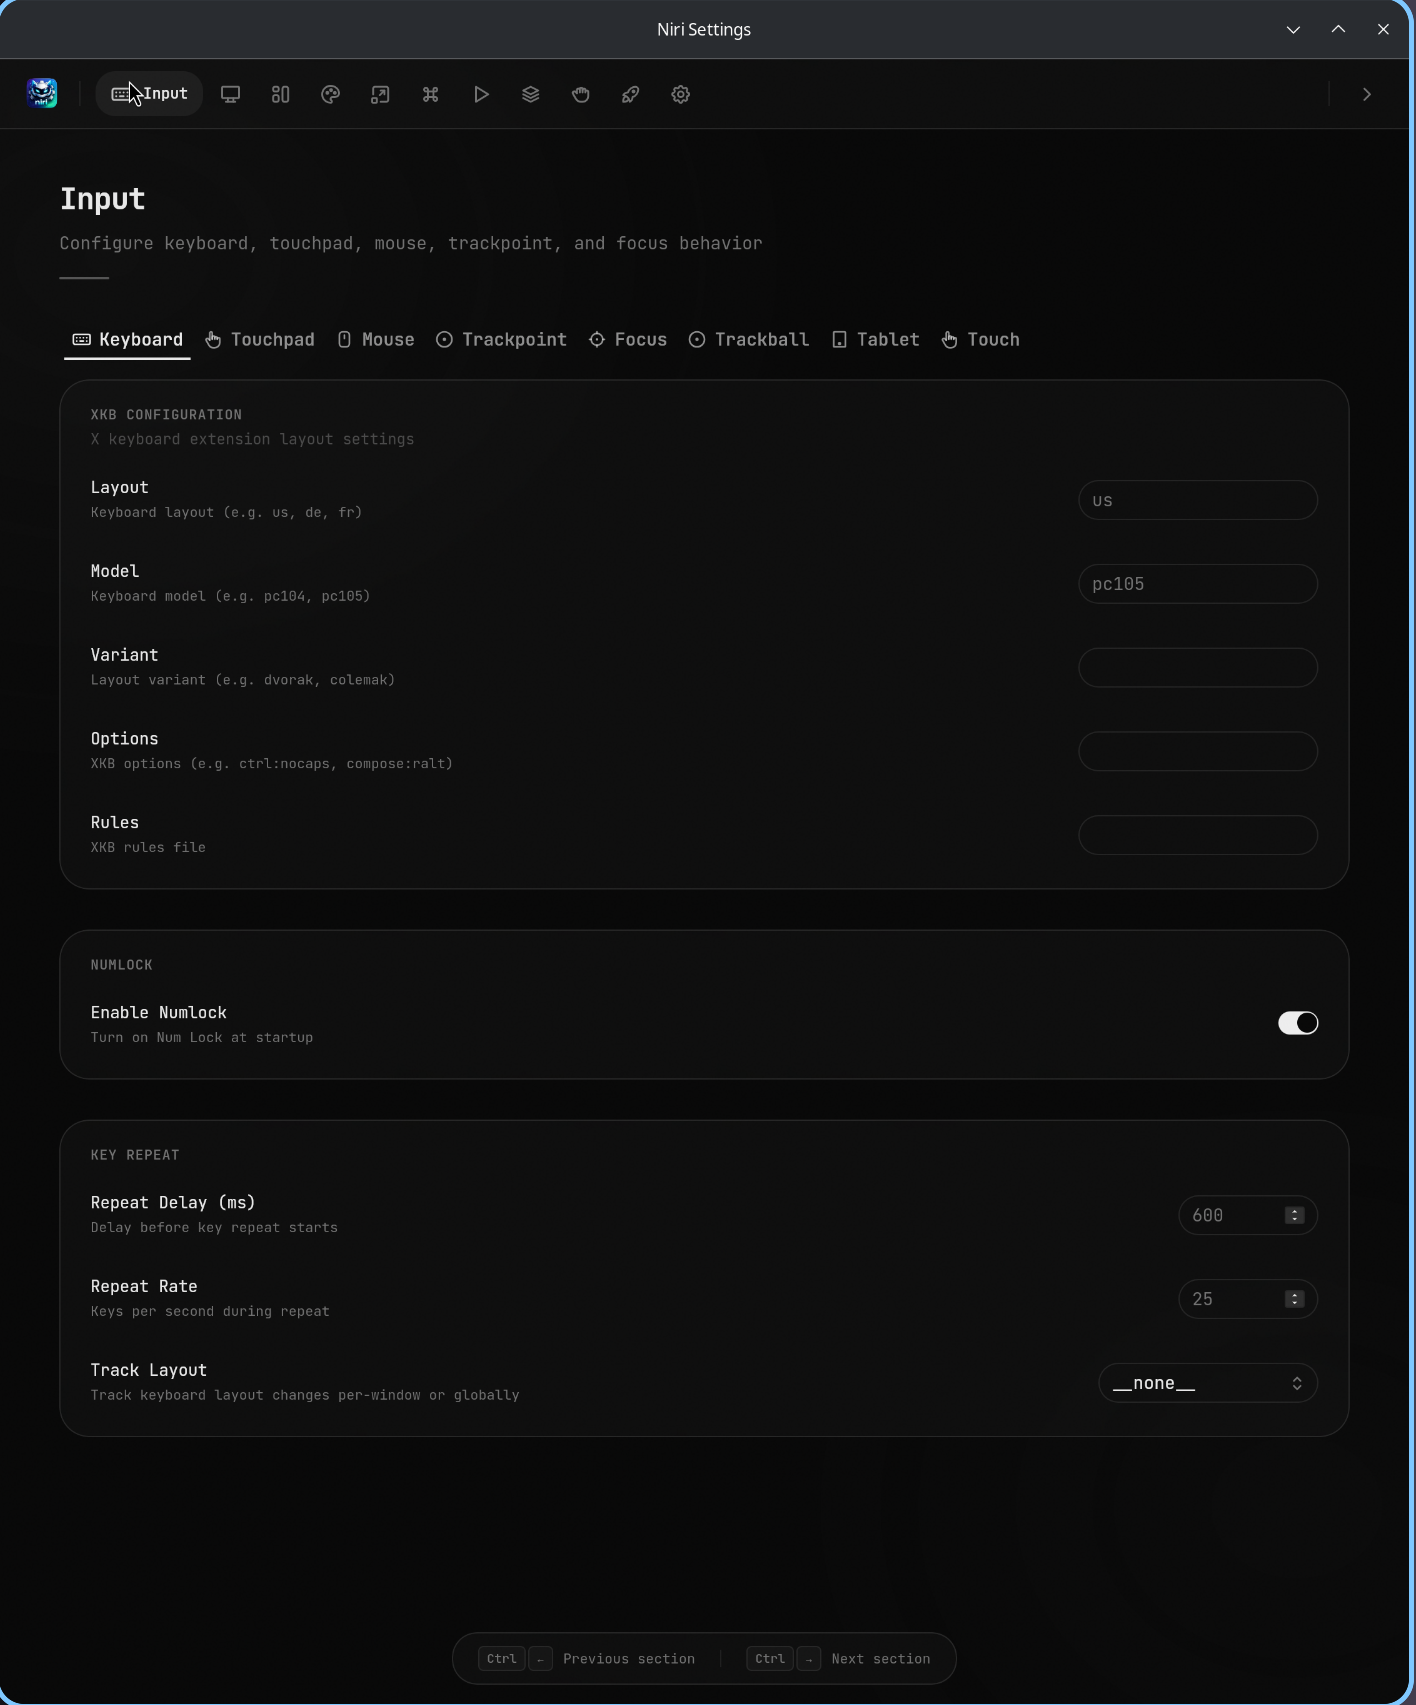
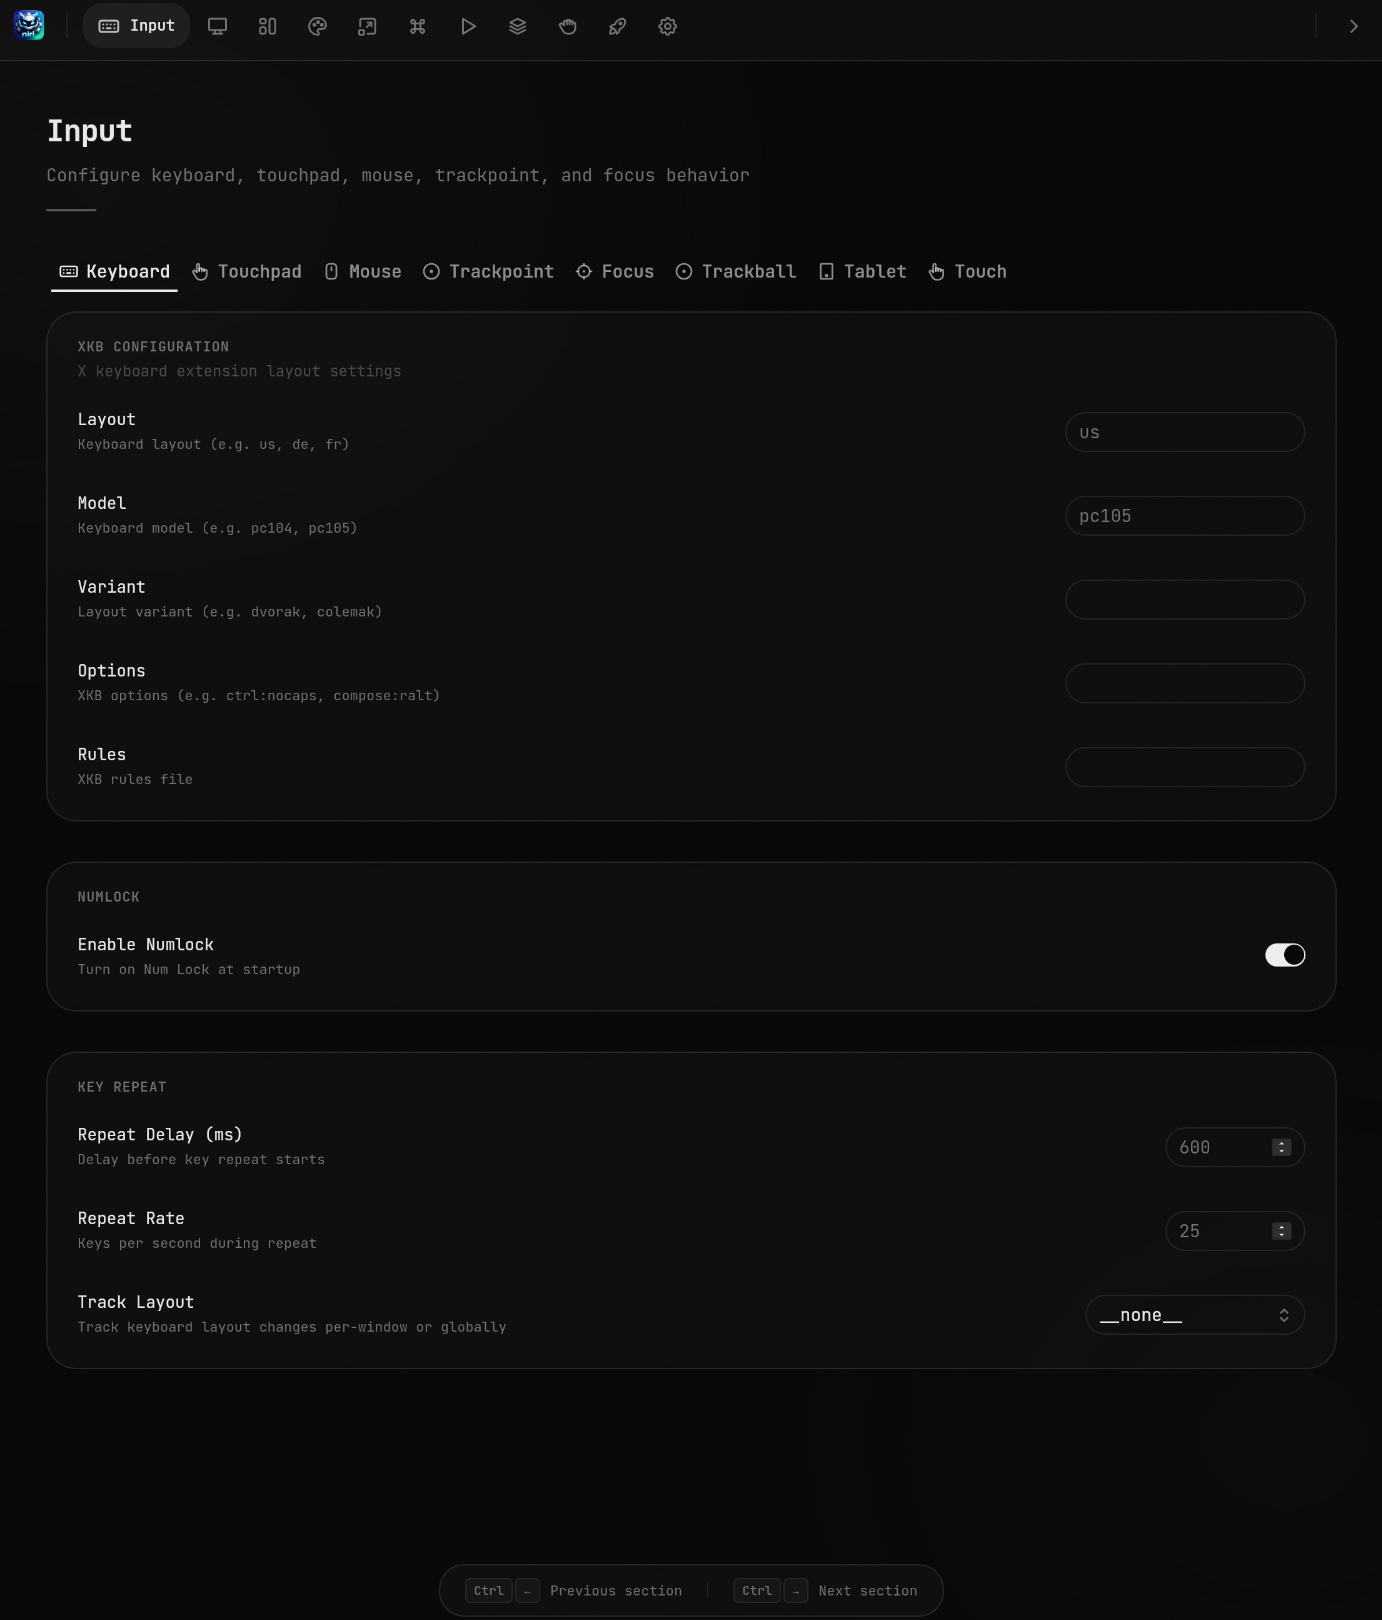
feat: update README to include new screenshot

diff --git a/README.md b/README.md
@@ -6,6 +6,10 @@
 
 <p align="center">A graphical settings editor for the <a href="https://github.com/YaLTeR/niri">niri</a> Wayland compositor.<br/>Built with Tauri, React, and Rust.</p>
 
+<p align="center">
+  <img src="public/screenshot.png" width="700" />
+</p>
+
 ---
 
 ## Download
